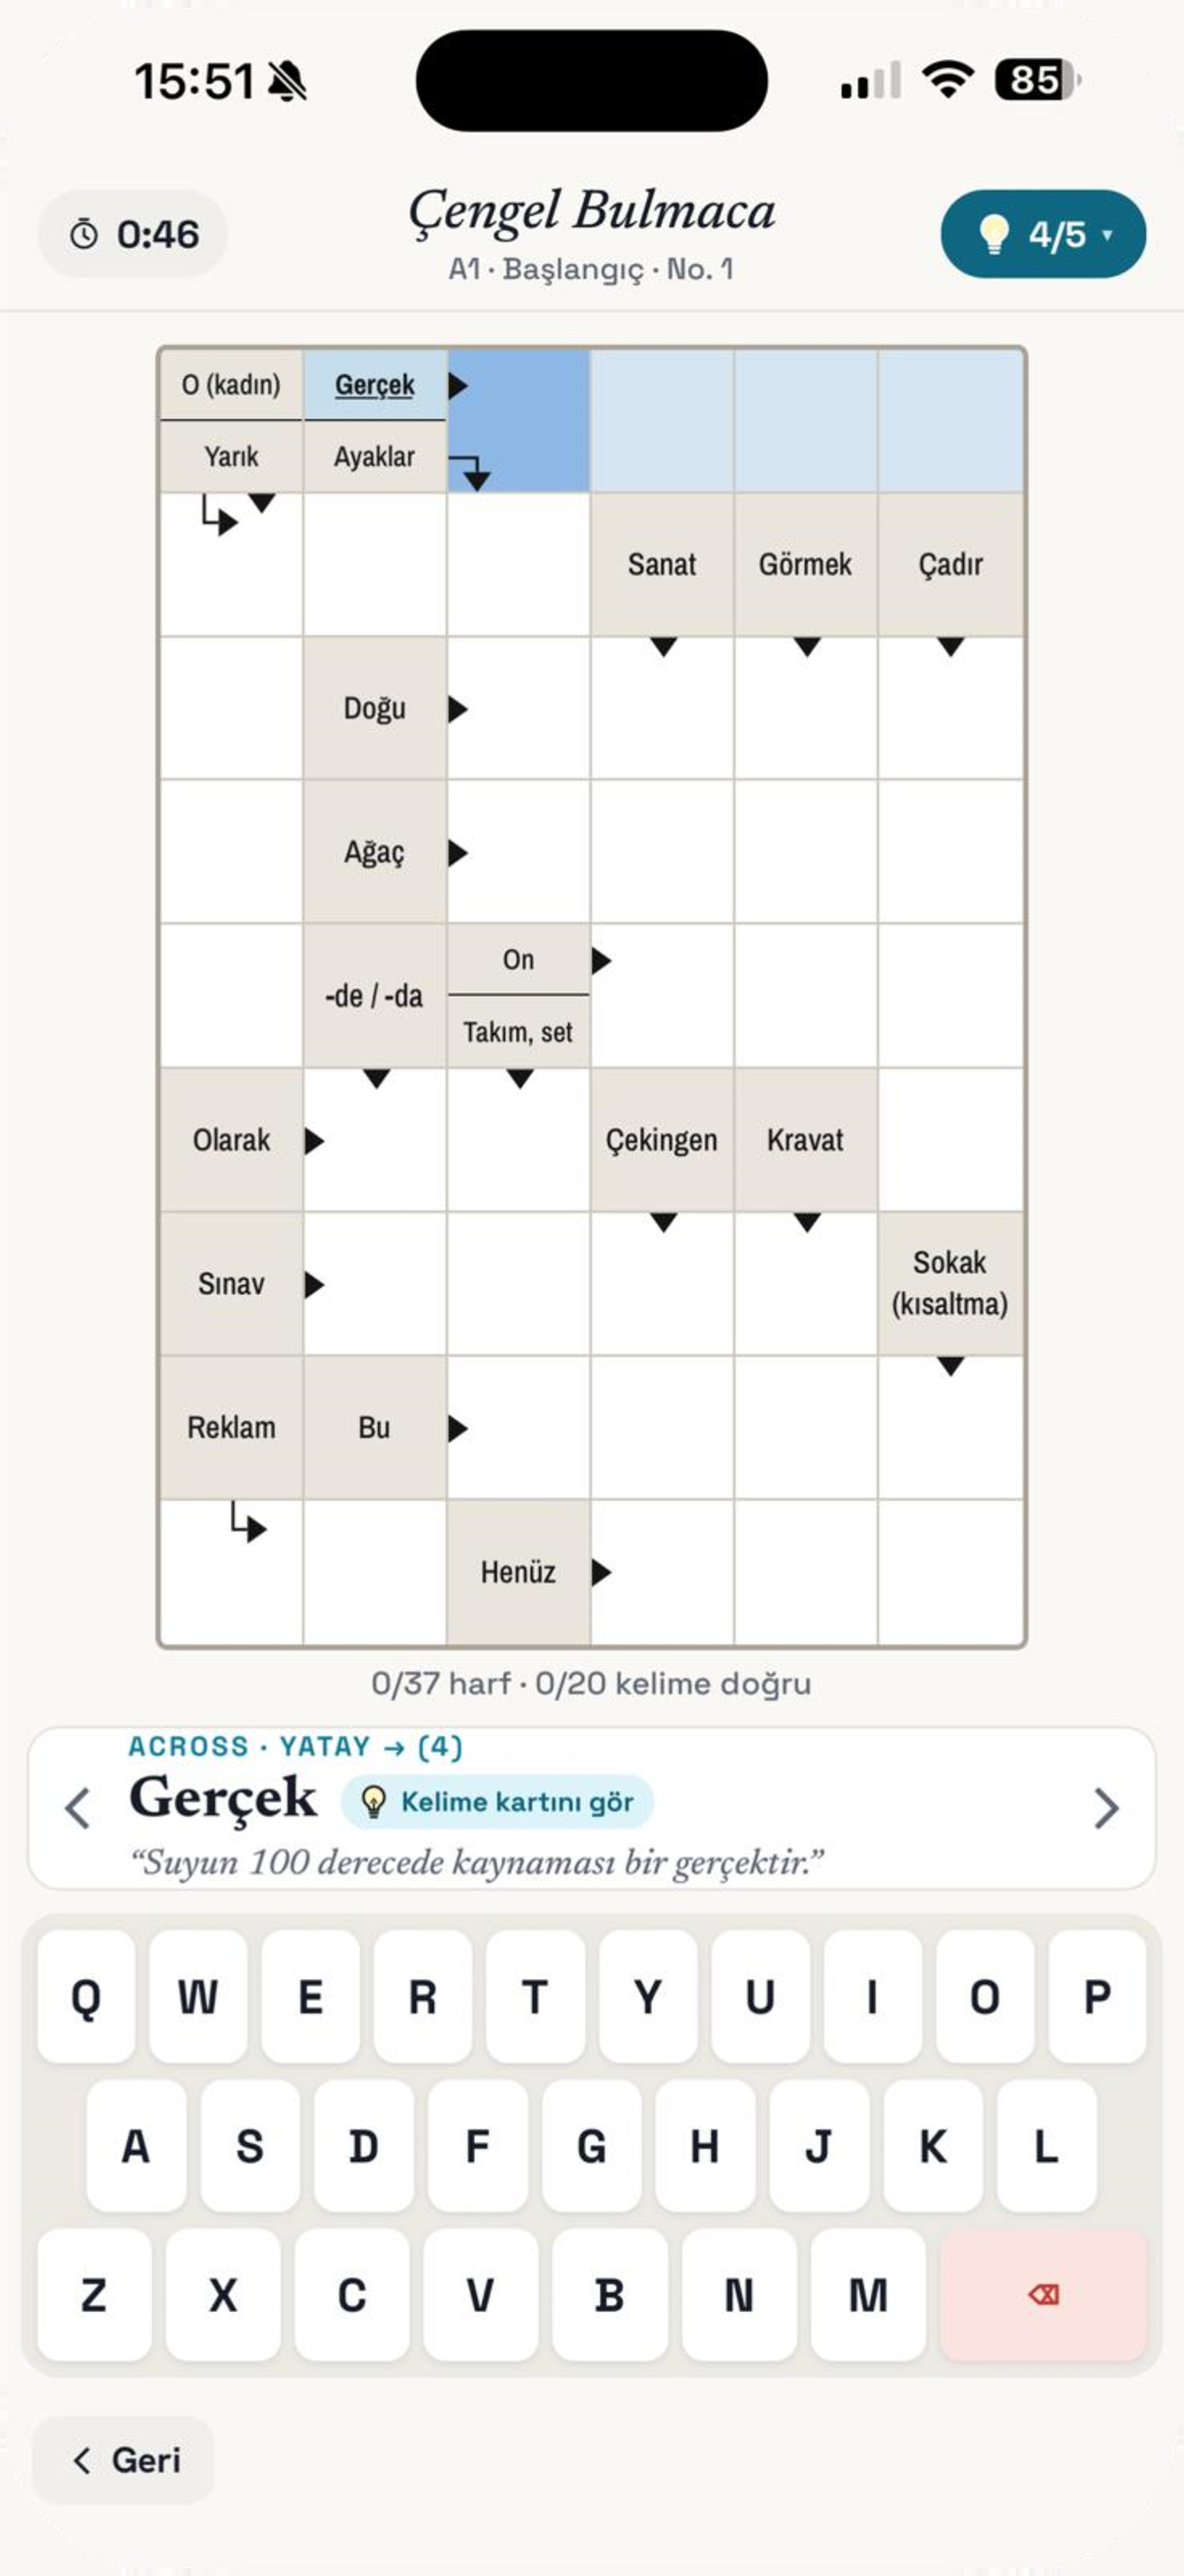
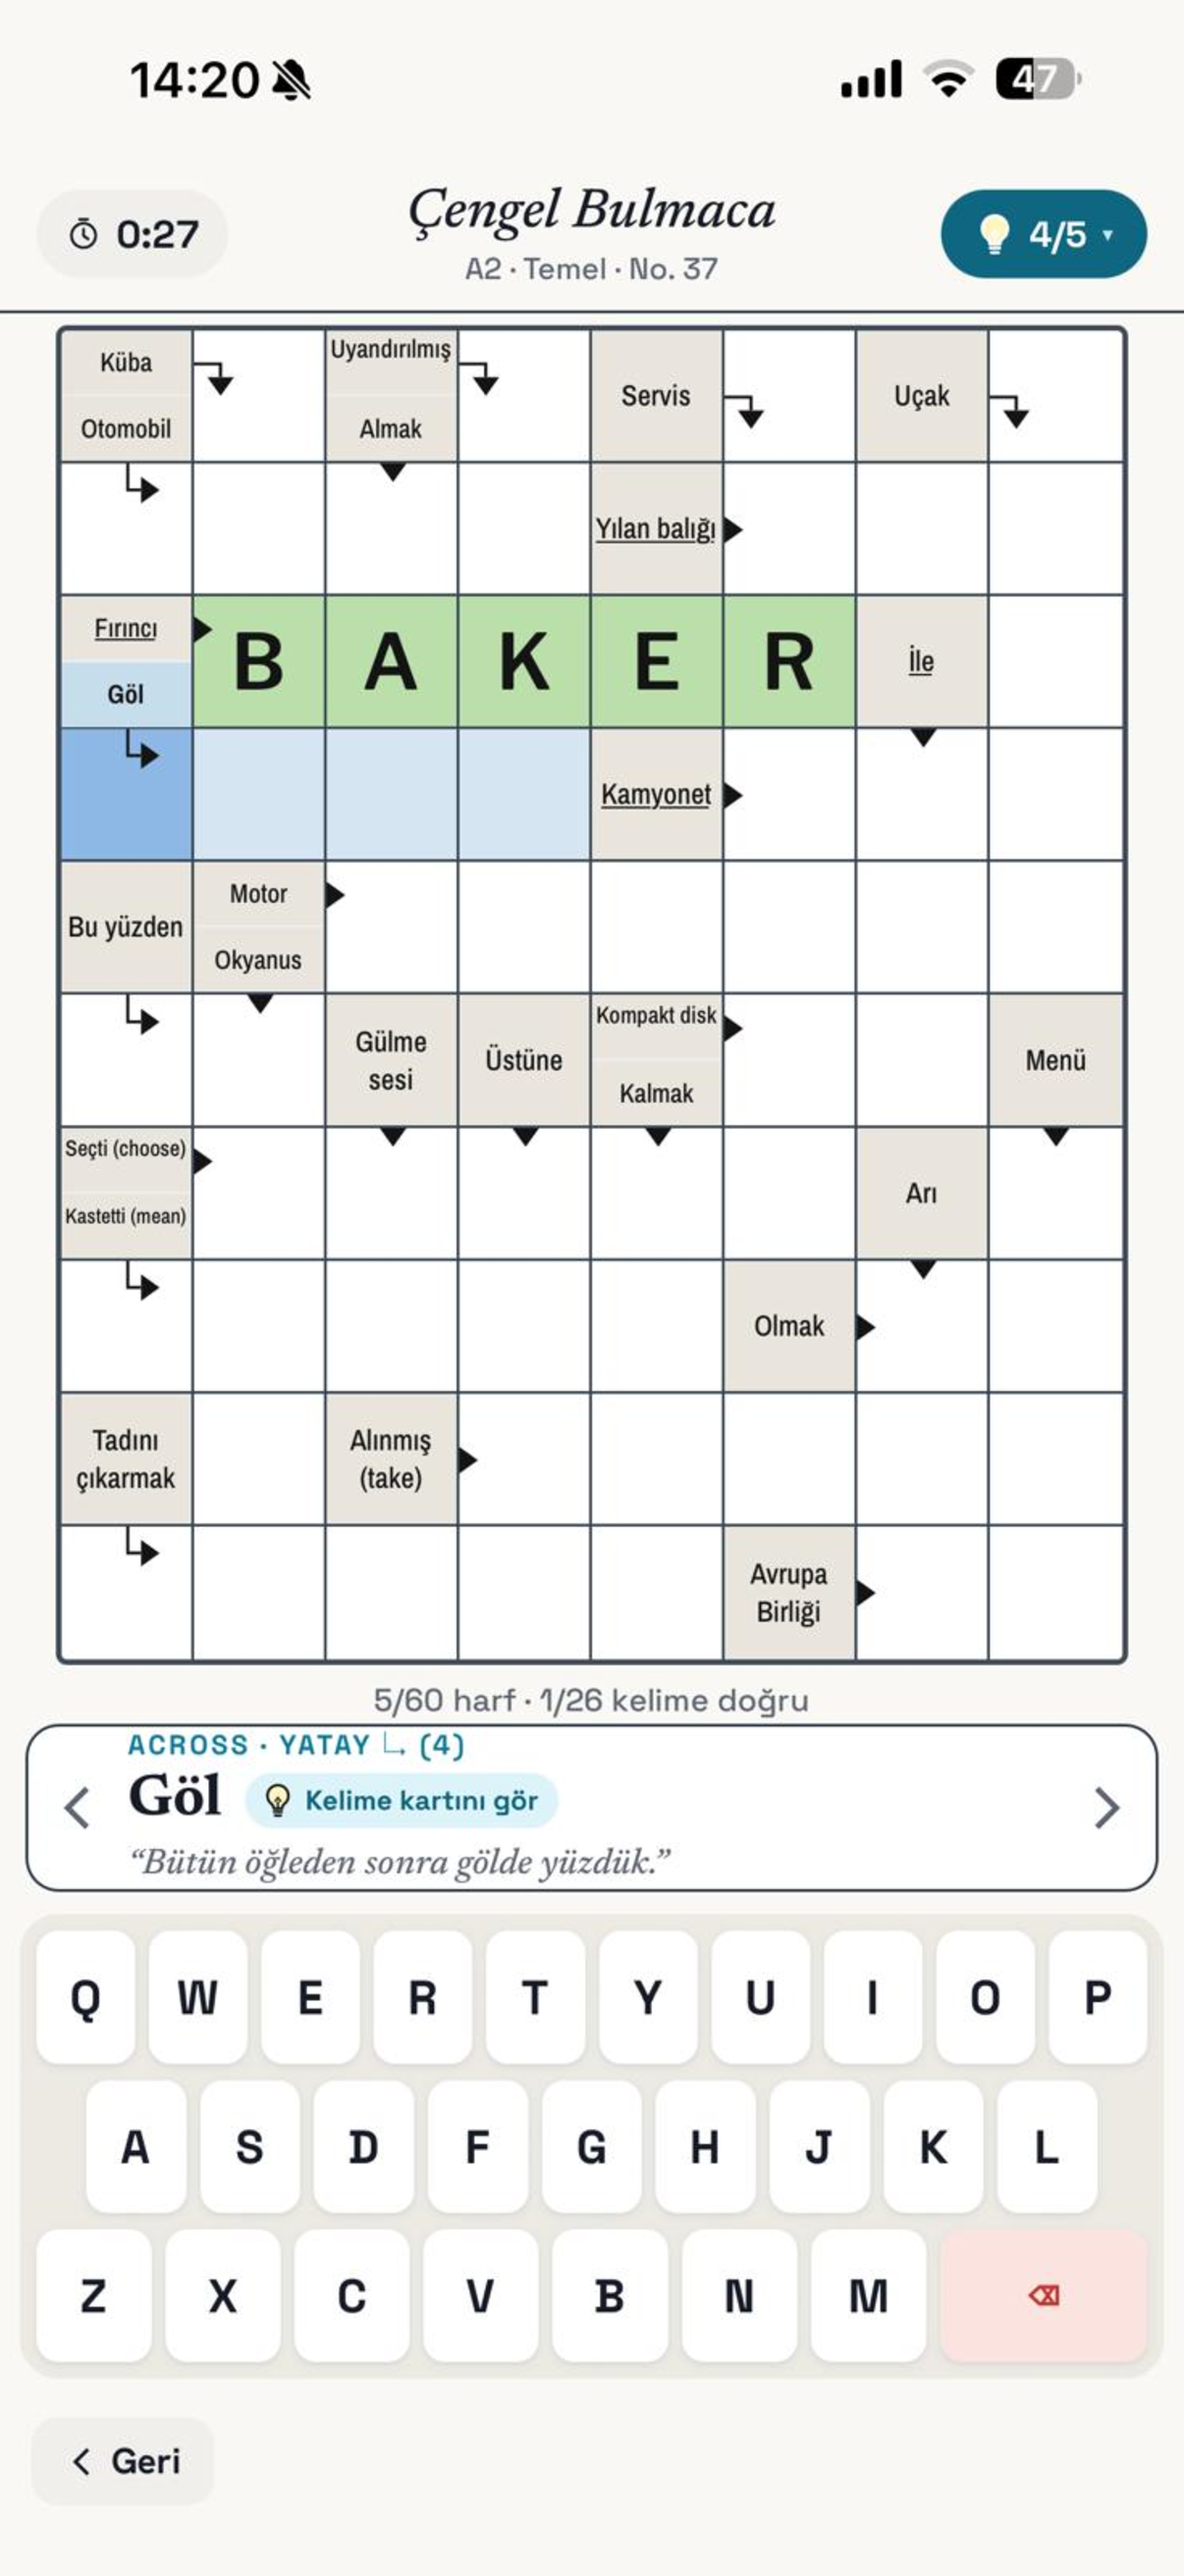
1.3.1 release notes and App Store screenshot (8x10 zero-blank puzzle)

diff --git a/src/components/VersionModals.js b/src/components/VersionModals.js
@@ -8,12 +8,13 @@ import { ed, efonts } from '../theme';
 // Sürüm notları (yeni sürümde en üste ekle)
 export const WHATS_NEW = {
   '1.3.1': [
-    ['🧩', 'Boş karesiz bulmacalar', 'Çengel bulmacalar daha büyük ve gazetedekiler gibi: her kare ya harf ya ipucu, hiç boş kare yok.'],
+    ['🧩', 'Boş karesiz büyük bulmacalar', 'Çengel bulmacalar gazetedekiler gibi: her kare ya harf ya ipucu, hiç boş kare yok. Bulmaca başına daha çok kelime.'],
+    ['🖼', 'Resimli bulmaca da boşluksuz', 'Fotoğrafın çevresi de tamamen dolu; resimdeki nesne her zaman bulmacada.'],
+    ['👆', 'Akıllı seçim', 'Bir kareye dokununca o kareye en yakın kelime seçilir, imleç dokunduğun yerde kalır.'],
     ['⚡', 'Sonraki bulmaca hazır', 'Sen çözerken sıradaki bulmaca arka planda hazırlanır, "Sonraki"ye basınca hemen açılır.'],
     ['🗂', 'Bulmaca arşivi', 'Kaçırdığın günlük bulmacaları son 30 gün içinden çözebilirsin.'],
     ['🔊', 'Aksan seçimi', 'Kelimeleri Amerikan ya da İngiliz aksanıyla dinle (Profil > Ayarlar).'],
     ['📚', 'Daha fazla kelime', 'Yüzlerce yeni kelime, düzensiz fiiller ve çoğullar; ipucunun altında Türkçe örnek cümle.'],
-    ['🔁', 'Tekrar yok', 'İki harfli kısa kelimeler de art arda bulmacalarda tekrar gelmez.'],
   ],
   '1.3.0': [
     ['🧩', 'Daha dolu bulmacalar', 'Çengel bulmacalarda boş kareler yarı yarıya azaldı.'],

diff --git a/store/QORVEX_STORE.md b/store/QORVEX_STORE.md
@@ -148,12 +148,13 @@ Daily streak, weekly rhythm, fastest times, learned words and hint-free solve ra
 **Türkçe**
 
 ```
-• Çengel bulmacalar daha büyük ve hiç boş kare yok
+• Boş karesiz büyük bulmacalar: her kare harf ya da ipucu, bulmaca başına daha çok kelime
+• Resimli bulmaca da artık boşluksuz
+• Akıllı seçim: dokunduğun kareye en yakın kelime seçilir
 • Sıradaki bulmaca arka planda hazırlanır, anında açılır
 • Bulmaca arşivi: son 30 günün günlük bulmacaları
 • Amerikan / İngiliz aksan seçimi
-• Yüzlerce yeni kelime, düzensiz fiiller ve çoğullar
-• İpucunun altında Türkçe örnek cümle
+• Yüzlerce yeni kelime, düzensiz fiiller ve çoğullar; ipucunun altında Türkçe örnek cümle
 • Kısa kelimeler art arda bulmacalarda tekrar gelmez
 • Birçok düzeltme
 ```
@@ -161,12 +162,13 @@ Daily streak, weekly rhythm, fastest times, learned words and hint-free solve ra
 **English**
 
 ```
-• Bigger arrowword puzzles with no blank cells
+• Bigger arrowword puzzles with no blank cells: every cell is a letter or a clue, with more words per puzzle
+• Picture puzzles have no blank cells either
+• Smart selection: tapping a cell picks the nearest word
 • The next puzzle is prepared in the background and opens instantly
 • Puzzle archive: daily puzzles from the last 30 days
 • Choose a US or UK accent
-• Hundreds of new words, irregular verbs and plurals
-• A Turkish example sentence under each clue
+• Hundreds of new words, irregular verbs and plurals; a Turkish example sentence under each clue
 • Short words no longer repeat in back-to-back puzzles
 • Many fixes
 ```
